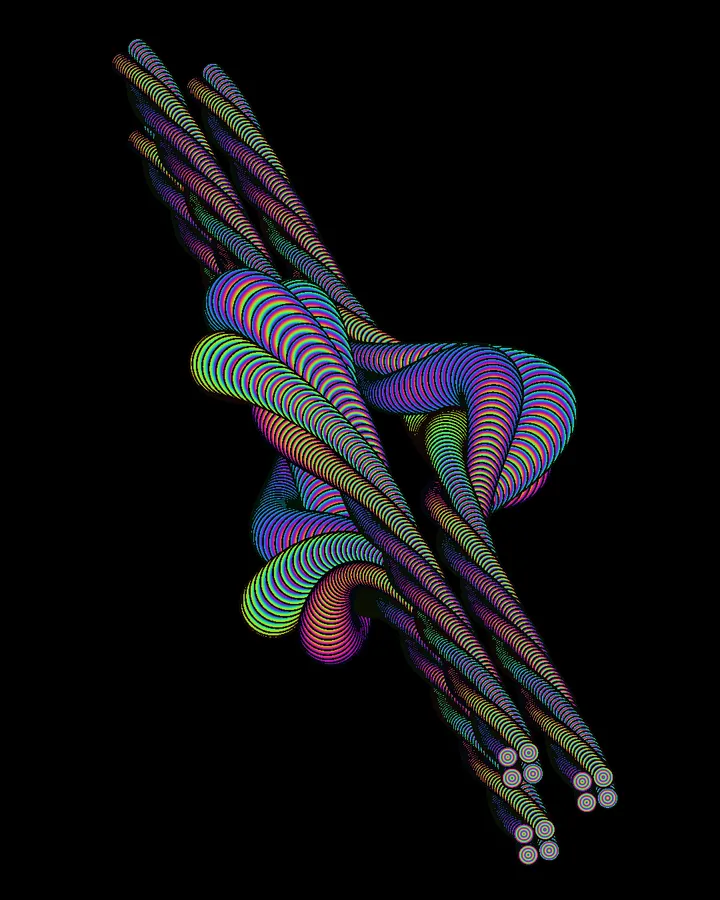
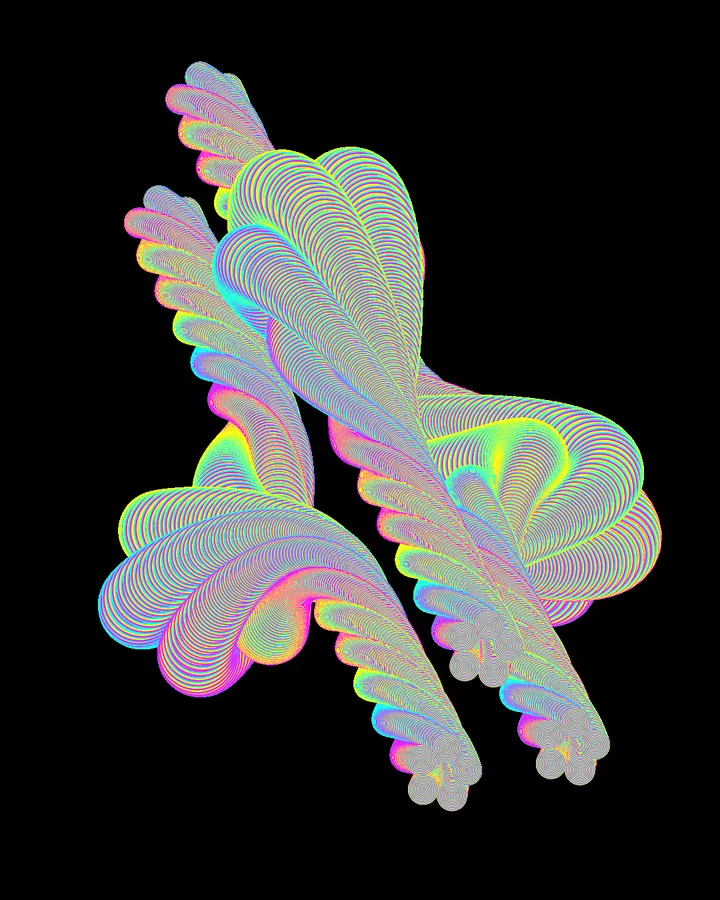
flowers-shaders-v1-melted previews

diff --git a/src/templates/p5/sketches/flowers-shaders/flowers-shaders-v1-melted/options.ts b/src/templates/p5/sketches/flowers-shaders/flowers-shaders-v1-melted/options.ts
@@ -4,31 +4,31 @@ import titleFormConfiguration from "@/p5/utils/title/titleFormConfiguration";
 export const formValues = {
   timeScale: 2.2,
   path: {
-    boundary: 147,
-    step: 1 / 250,
+    boundary: 263,
+    step: 0.003 / 250,
     anchorTimeScale: 0.25,
     easing: "linear"
   },
   flower: {
     sides: 3,
-    flowerPetals: 4,
-    sizeMin: 68,
-    sizeMax: 213,
-    rotationSpeed: 0.39,
-    innerRotationGain: 17.9,
-    borderWidth: 1.5,
-    borderDarken: 0.07
+    flowerPetals: 5,
+    sizeMin: 113,
+    sizeMax: 310,
+    rotationSpeed: -0.98,
+    innerRotationGain: 16.2,
+    borderWidth: 0,
+    borderDarken: 0
   },
   colors: {
-    hueSpeed: -5.68,
-    hueSpread: 1.78,
+    hueSpeed: 0.02,
+    hueSpread: 3.48,
     huePhase: 0,
     pathHueShift: -6.28,
     sideHueShift: 3.56,
     petalHueShift: 1.32,
-    shimmer: 1.94,
-    saturation: 0.82,
-    brightness: 1.01
+    shimmer: 2.5,
+    saturation: 1,
+    brightness: 2
   },
   aberration: {
     amount: 0,
